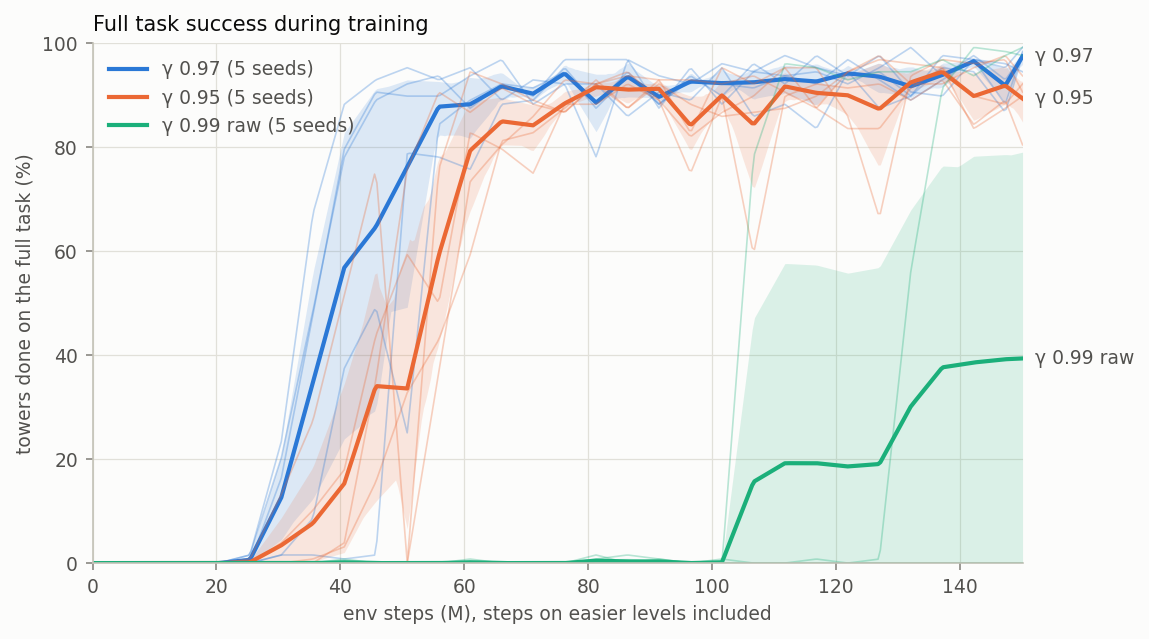
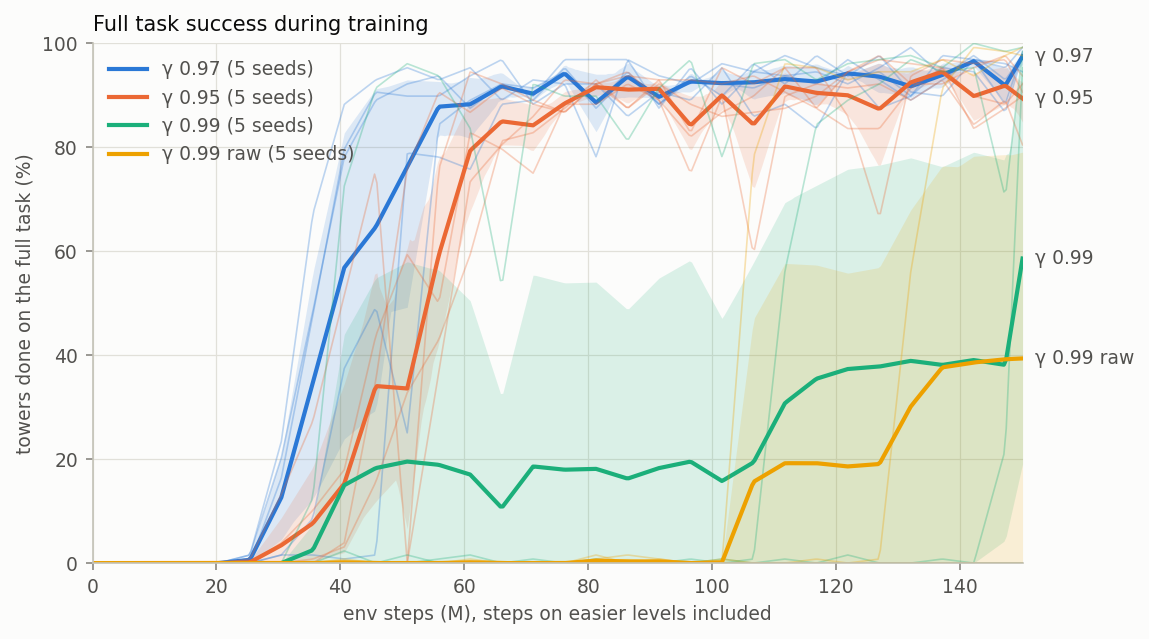
Part 4: use the four-arm plots (0.95 now in the curves)
Learning curve, phase reached and skill map now show all four arms
(regenerated with analyze_study.py --all-curves in mujoco-rl). Captions and
the level-0 paragraph updated to match.

Claude-Session: https://claude.ai/code/session_012aG5fdqQaShu3xEZ1B5wBj

diff --git a/content/posts/so100-stacking-discount/index.md b/content/posts/so100-stacking-discount/index.md
@@ -117,7 +117,7 @@ The 16 new runs took 12.6 hours on the two RTX 5090s, about $10–30 of GPU time
 
 ## Results: the prediction was wrong
 
-{{< figure src="learning_curve_g99.png" alt="Full-task success vs steps for gamma 0.97, 0.99 and 0.99 without reward scaling, 5 seeds each" caption="Full-task success during training, 5 seeds per arm. Thick lines: mean; bands: 95% bootstrap CI; thin lines: individual seeds. Both 0.99 arms fall far behind 0.97." >}}
+{{< figure src="learning_curve.png" alt="Full-task success vs steps for gamma 0.97, 0.95, 0.99 and 0.99 without reward scaling, 5 seeds each" caption="Full-task success during training, 5 seeds per arm. Thick lines: mean; bands: 95% bootstrap CI; thin lines: individual seeds. 0.95 follows 0.97 about 15M steps behind. Both 0.99 arms fall far behind: only some of their seeds take off, at very different times." >}}
 
 | $\gamma$ | Seeds that learn the task | Time to 10% (median) | AUC | **Final success** |
 |---|---|---|---|---|
@@ -132,7 +132,8 @@ The 16 new runs took 12.6 hours on the two RTX 5090s, about $10–30 of GPU time
   only at 147M steps. Without reward scaling, two out of five do. The seeds that do learn end
   as high as 0.97 (92–99%). So 0.99 doesn't cap performance; it makes reaching it unreliable.
 - **0.95 costs a little but always works.** Every seed learns the task, about 15M steps later
-  than 0.97, and ends a few points lower.
+  than 0.97 (the orange curve runs parallel to the blue one, shifted right), and ends a few
+  points lower.
 - **Reward scaling helps 0.99 a little at most.** Five seeds can't tell the two 0.99 arms apart
   with any confidence.
 
@@ -142,7 +143,7 @@ The 16 new runs took 12.6 hours on the two RTX 5090s, about $10–30 of GPU time
 
 The phase plot shows how far the full-task episodes get:
 
-{{< figure src="phase_reached.png" alt="Fraction of full-task episodes reaching each phase over training, for gamma 0.97, 0.99 and 0.99 unscaled" caption="Fraction of full-task episodes ending at each phase or beyond. Every arm learns to place blue early. At 0.99, the green cube then stays unstacked in most episodes for 100M+ steps." >}}
+{{< figure src="phase_reached.png" alt="Fraction of full-task episodes reaching each phase over training, one panel per arm: gamma 0.97, 0.95, 0.99 and 0.99 unscaled" caption="Fraction of full-task episodes ending at each phase or beyond. Every arm learns to place blue early. At 0.97 and 0.95, placing green follows within 10–20M steps. At 0.99, the green cube then stays unstacked in most episodes for 100M+ steps." >}}
 
 The failing 0.99 seeds place blue early (without reward scaling, about as fast as 0.97). Then they sit at "green never
 placed" for 100M steps or more. That looks like the wall from part 2: going to get the second
@@ -153,9 +154,12 @@ matters is the easiest one:
 
 {{< figure src="level_0.png" alt="Simulated SO-100 arm holding the green cube in its jaw just above a two-cube tower" caption="Level 0: the green cube is already in the jaw, a few centimetres above the tower. All that's left is to lower it, open the jaw and move away." >}}
 
-{{< figure src="skill_map.png" alt="Heatmaps of success at each curriculum level over training for gamma 0.97, 0.95 and 0.99 unscaled" caption="Success at every level over training, averaged over seeds. At 0.97 and 0.95, level 0 is the first one learned. At 0.99 (unscaled), it stays at zero for 100M steps." >}}
+{{< figure src="skill_map.png" alt="Heatmaps of success at each curriculum level over training, one panel per arm: gamma 0.97, 0.95, 0.99 and 0.99 unscaled" caption="Success at every level over training, averaged over seeds. At 0.97 and 0.95, level 0 is the first one learned, and the other levels follow. At 0.99, level 0 comes late: seed by seed with reward scaling, and not before ~105M steps without it." >}}
 
-At 0.97, every seed learns level 0 first, at 25–60M steps. At 0.99, the failing seeds stay at
+At 0.97, every seed learns level 0 first, at 25–60M steps, and 0.95 does the same. At 0.99,
+level 0 becomes a lottery of its own. With reward scaling, the seeds learn it at about 40M,
+80M, 110M and 150M steps, and one never does. Without it, two seeds learn it between 105M and
+150M, one reaches 63% by the end, and two never do. The failing seeds stay at
 **0% on level 0**, with a mean phase of exactly 2.00: the policy holds the green cube above the
 tower for the whole episode and never lets go. That's a clean freeze, the very behavior the
 return table was about, at the level where letting go is the only thing left to do.
